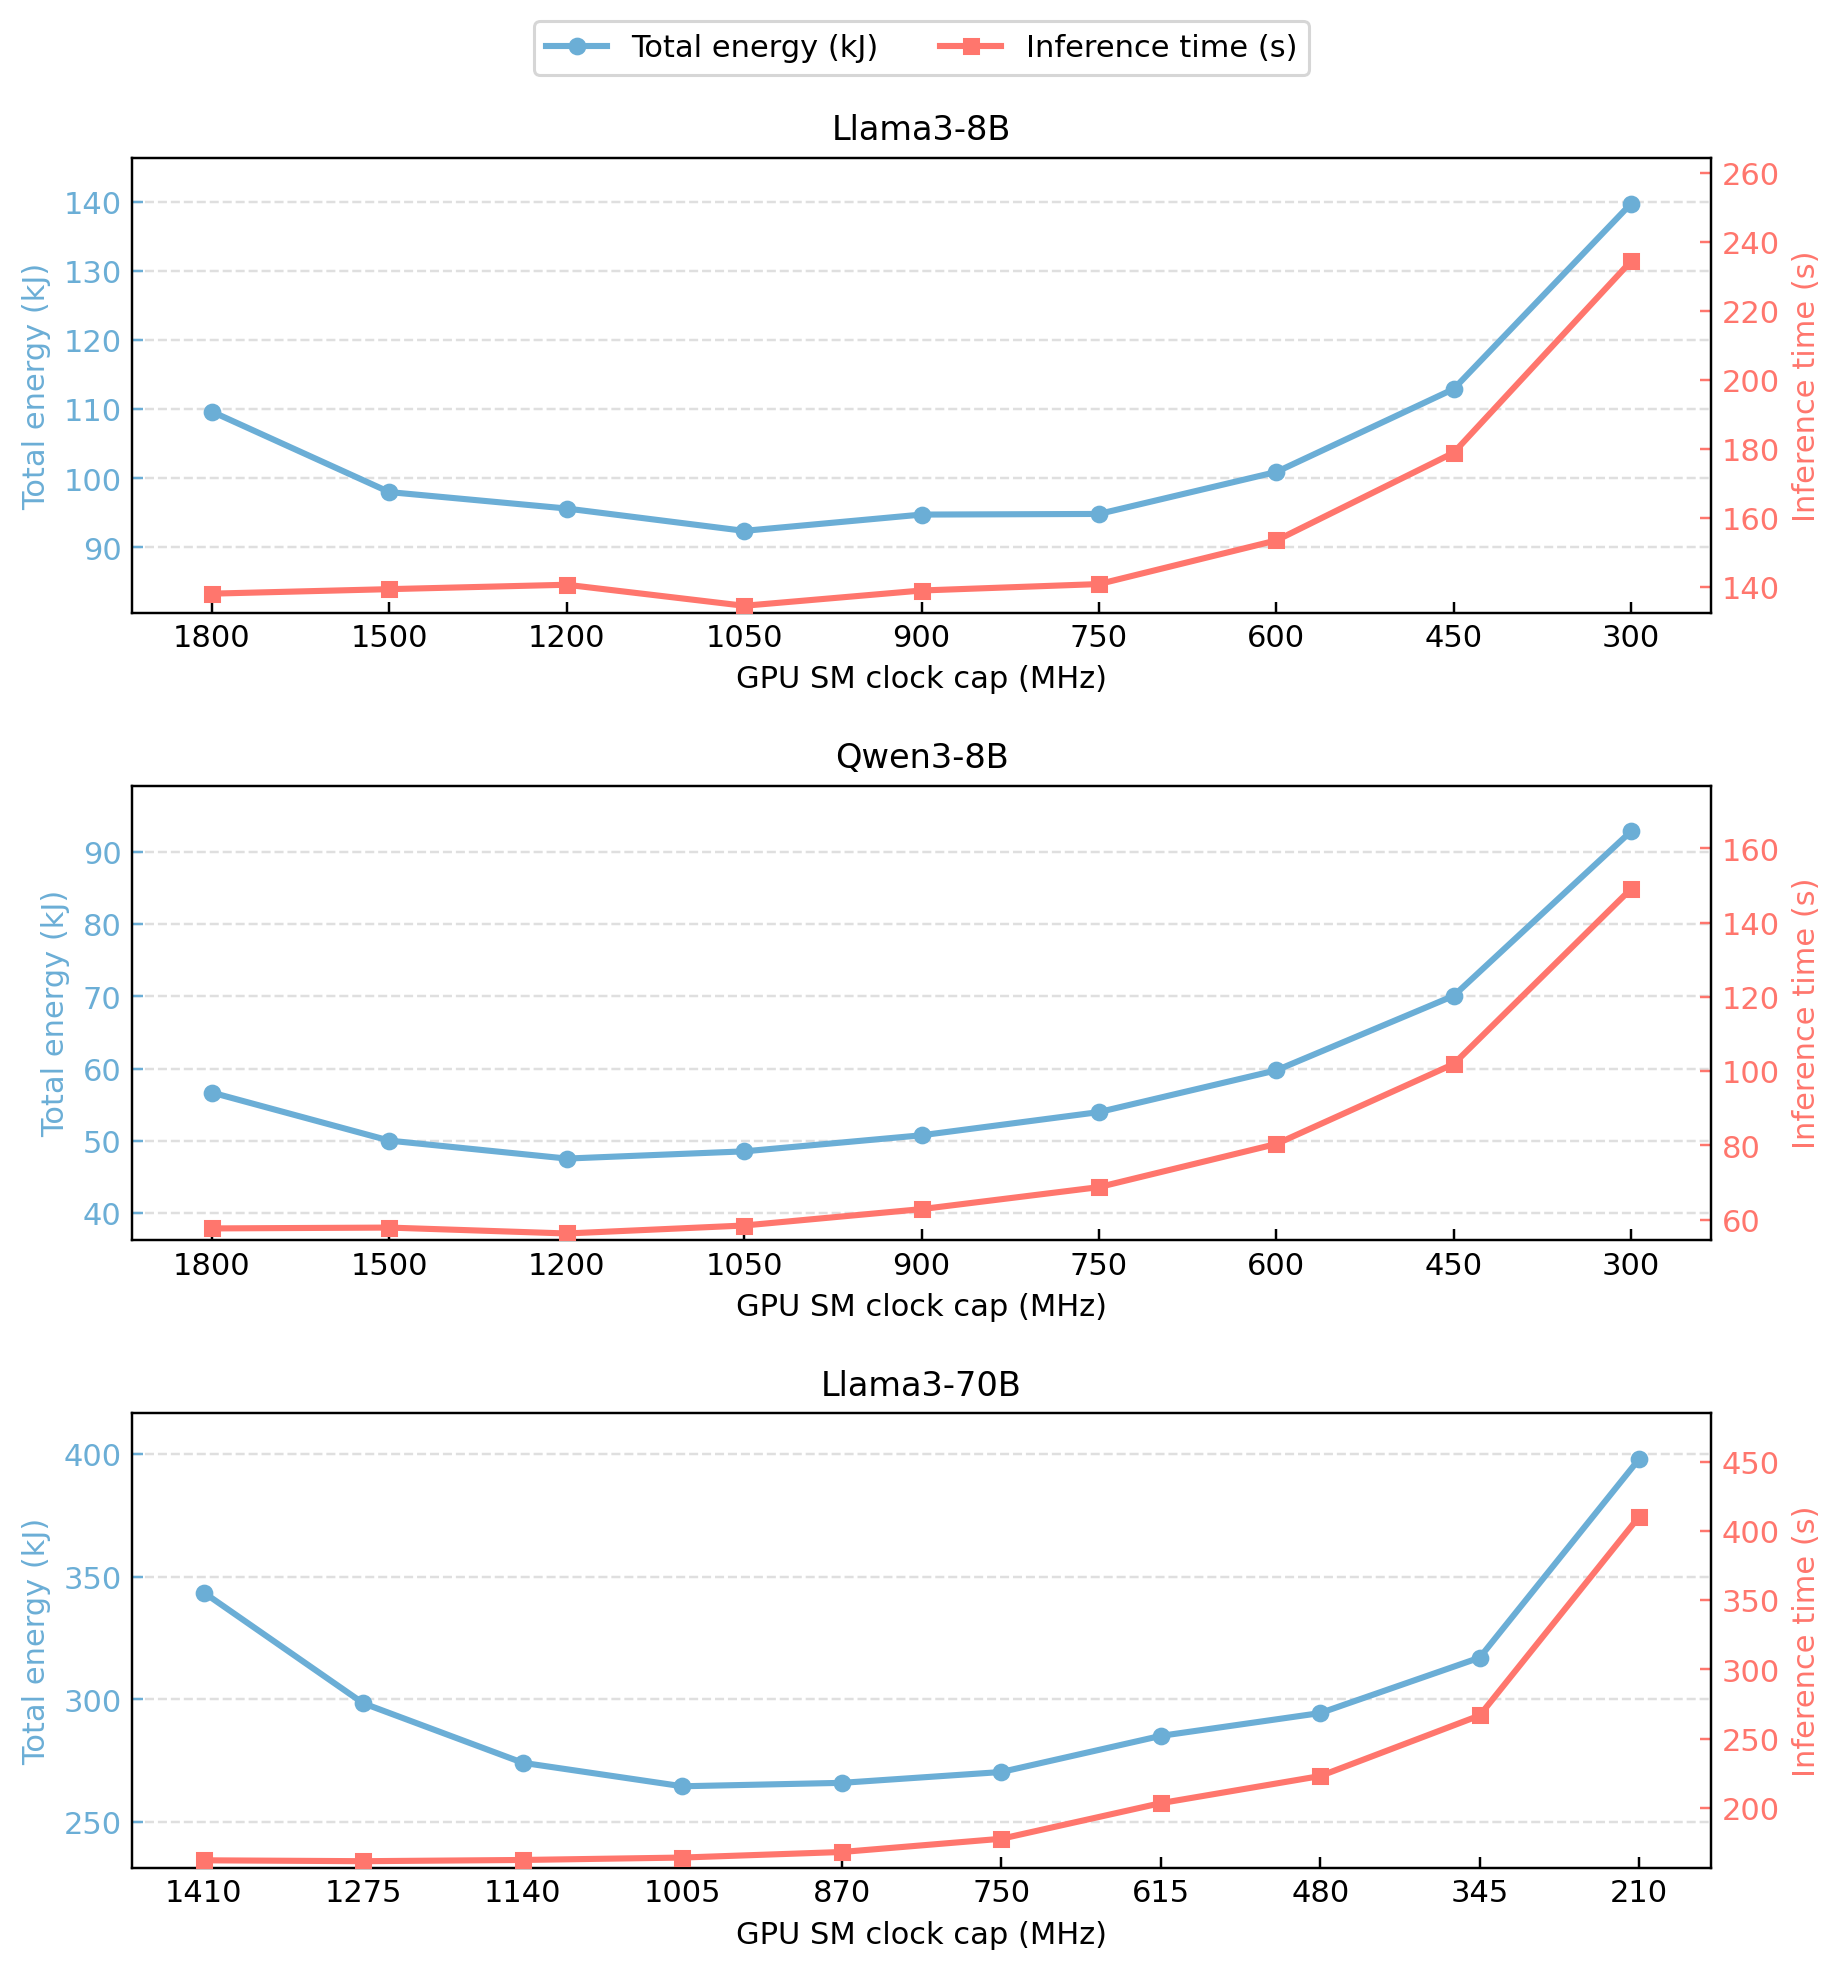
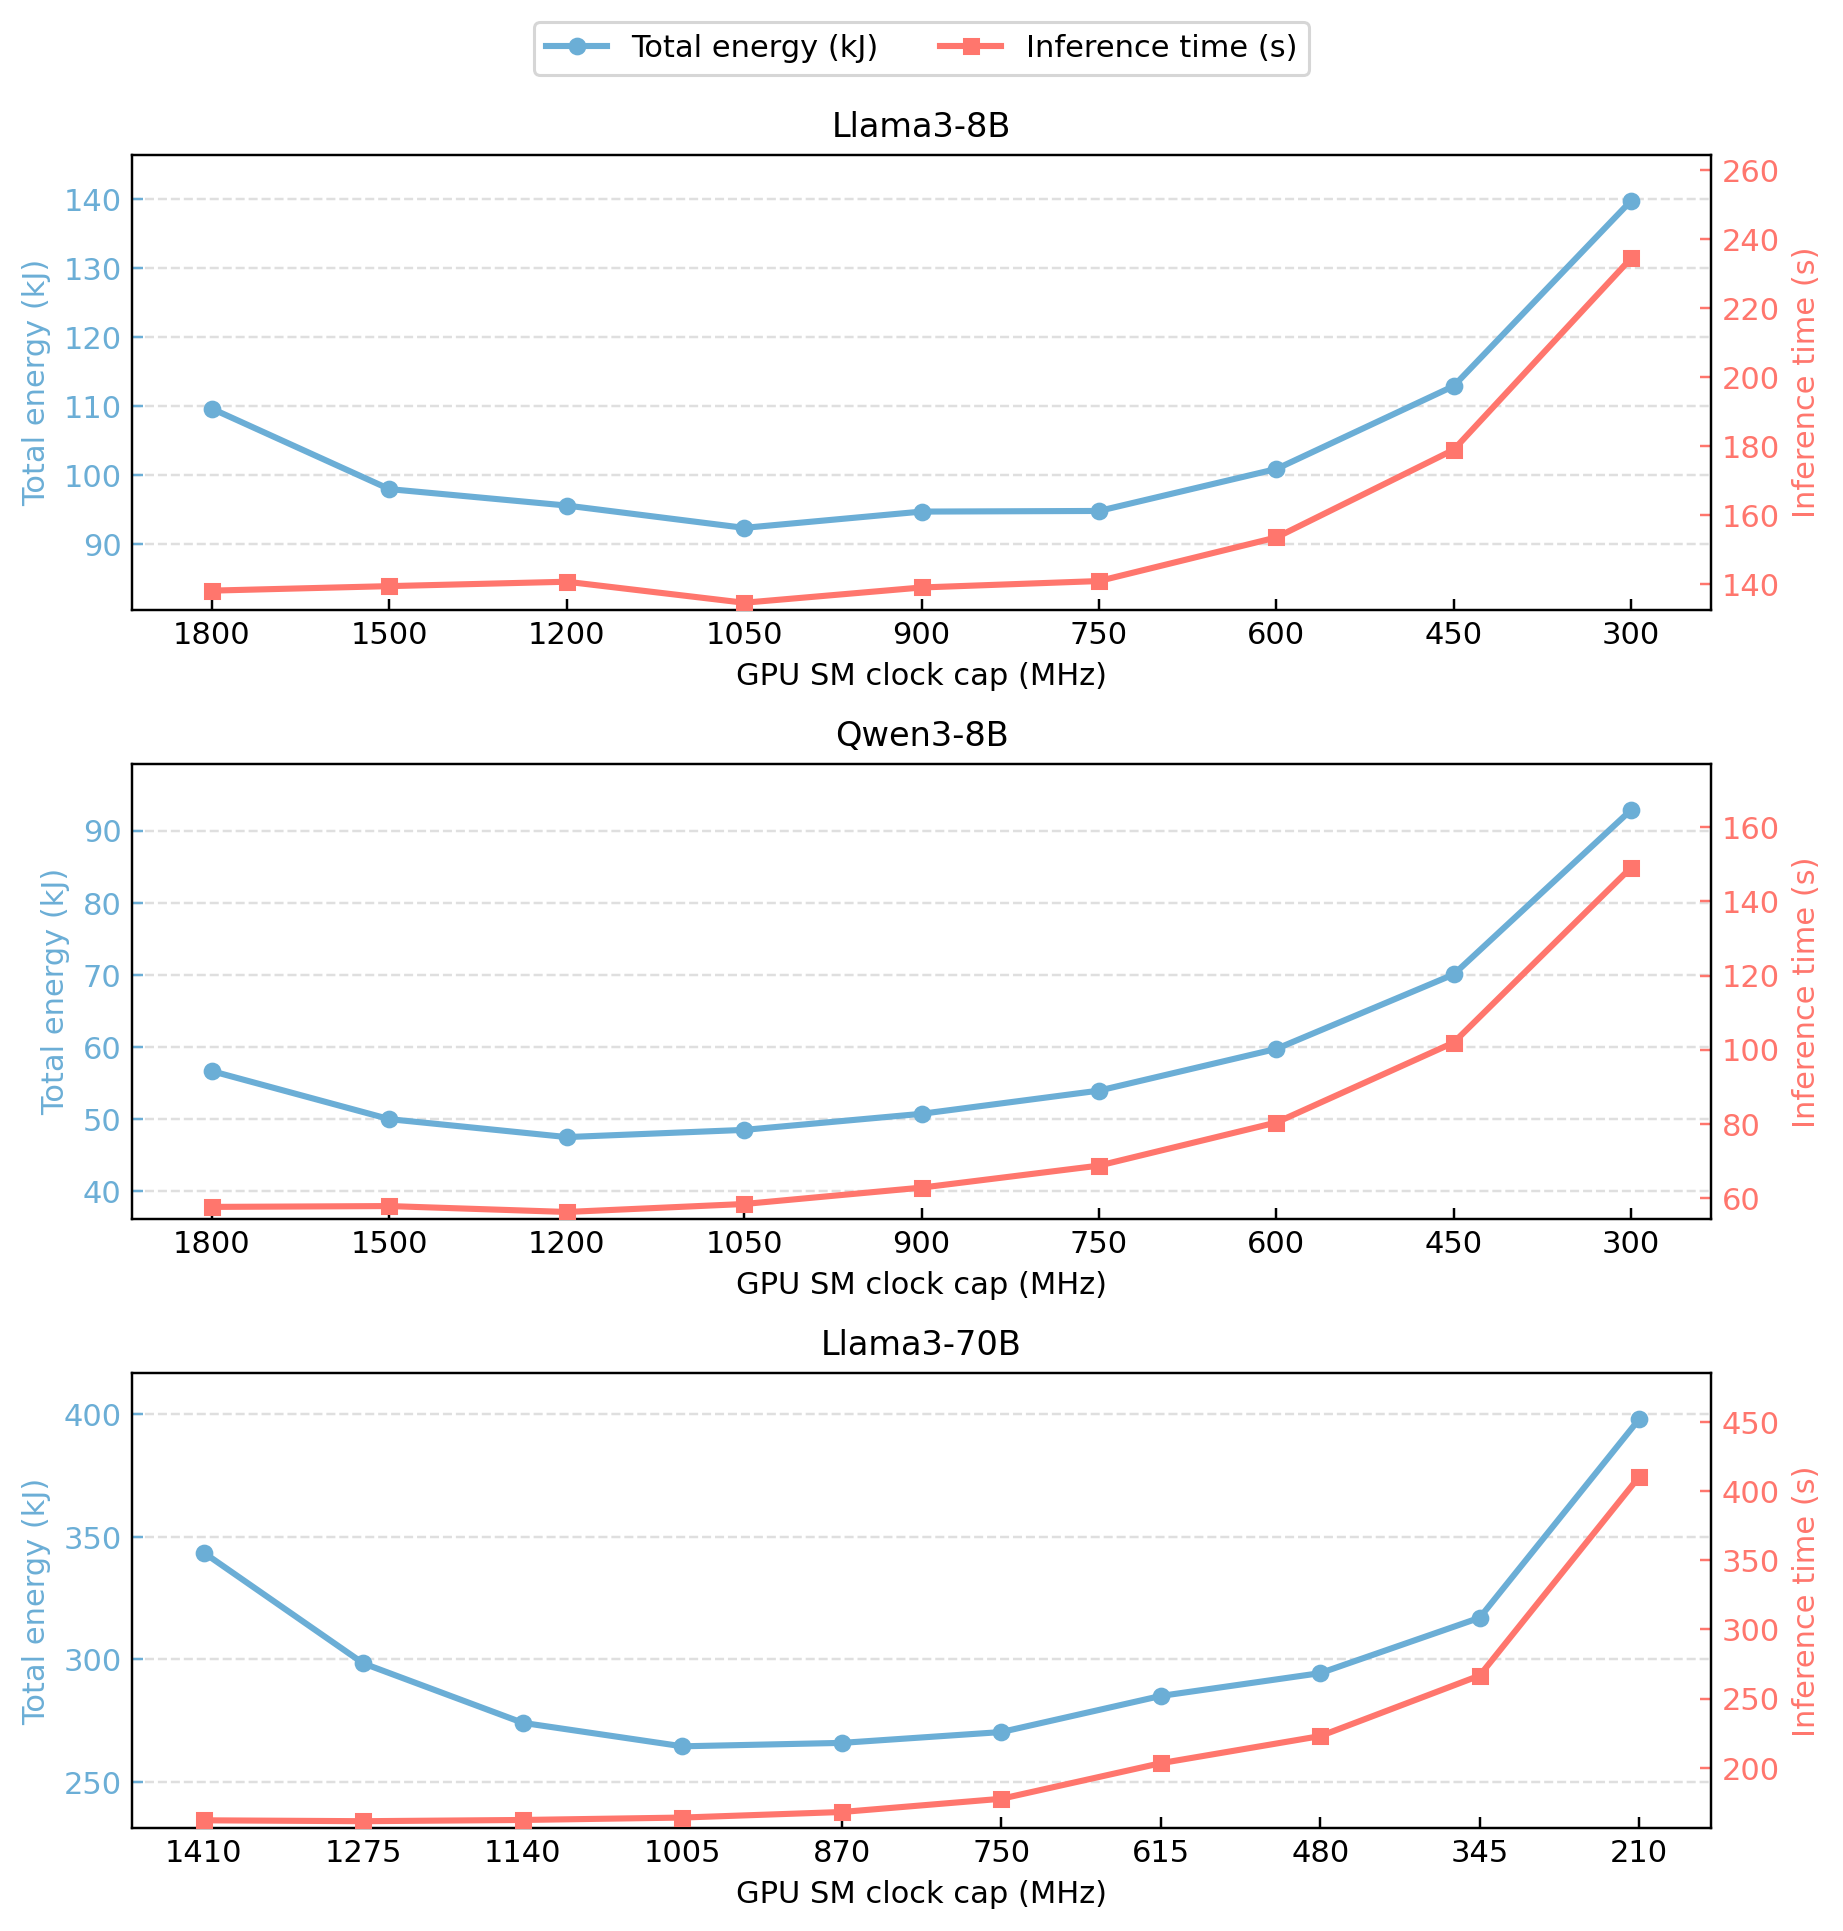
Slightly tighten Fig 11 panel spacing

diff --git a/figures/hcw_figures/fig11_sharegpt_three_models_bs256_20261018/plot.py b/figures/hcw_figures/fig11_sharegpt_three_models_bs256_20261018/plot.py
@@ -78,12 +78,12 @@ def draw(ax, group, title):
 def main():
     rows = load()
     plt.rcParams.update({"font.family": "DejaVu Sans", "font.size": 10})
-    fig, axes = plt.subplots(3, 1, figsize=(9.2, 9.2))
+    fig, axes = plt.subplots(3, 1, figsize=(9.2, 9.0))
     for ax, (model, title) in zip(axes, PANELS):
         lines = draw(ax, [row for row in rows if row["model"] == model], title)
     fig.legend(lines, [line.get_label() for line in lines], loc="upper center",
                bbox_to_anchor=(0.5, 0.995), ncol=2, frameon=True)
-    fig.subplots_adjust(left=0.11, right=0.89, top=0.92, bottom=0.075, hspace=0.38)
+    fig.subplots_adjust(left=0.11, right=0.89, top=0.92, bottom=0.075, hspace=0.34)
     fig.savefig(OUTPUT.with_suffix(".png"), dpi=220, bbox_inches="tight")
     fig.savefig(OUTPUT.with_suffix(".pdf"), bbox_inches="tight")
     plt.close(fig)
